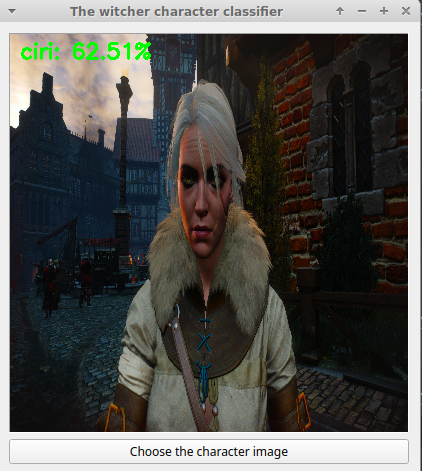
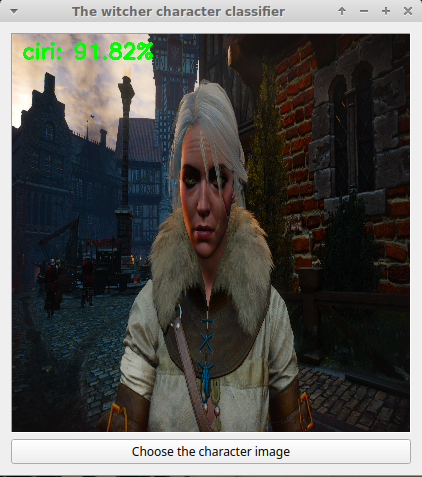
Updating model and examples

diff --git a/src/network_model.py b/src/network_model.py
@@ -29,7 +29,7 @@ class NetworkModel:
         model = Model(inputs=input_model.input, outputs=x)
         model.compile(
             loss=constant.MODEL_LOSS,
-            optimizer=Adam(lr=constant.LEARNING_RATE),
+            optimizer=Adam(lr=constant.LEARNING_RATE, decay=constant.LEARNING_RATE / constant.EPOCHS),
             metrics=['accuracy']
         )
 

diff --git a/src/helper/constant.py b/src/helper/constant.py
@@ -5,7 +5,7 @@ MODEL_LOSS = "categorical_crossentropy"
 MODEL_PATH = "output/witcher-classifier.h5"
 PLOT_PATH = "output/plot.png"
 UNKNOWN_LABEL = "Unknown"
-BATCH_SIZE = 21
+BATCH_SIZE = 32
 IMAGE_WIDTH = 224
 IMAGE_HEIGHT = 224
 IMAGE_SHOW_WIDTH = 400
